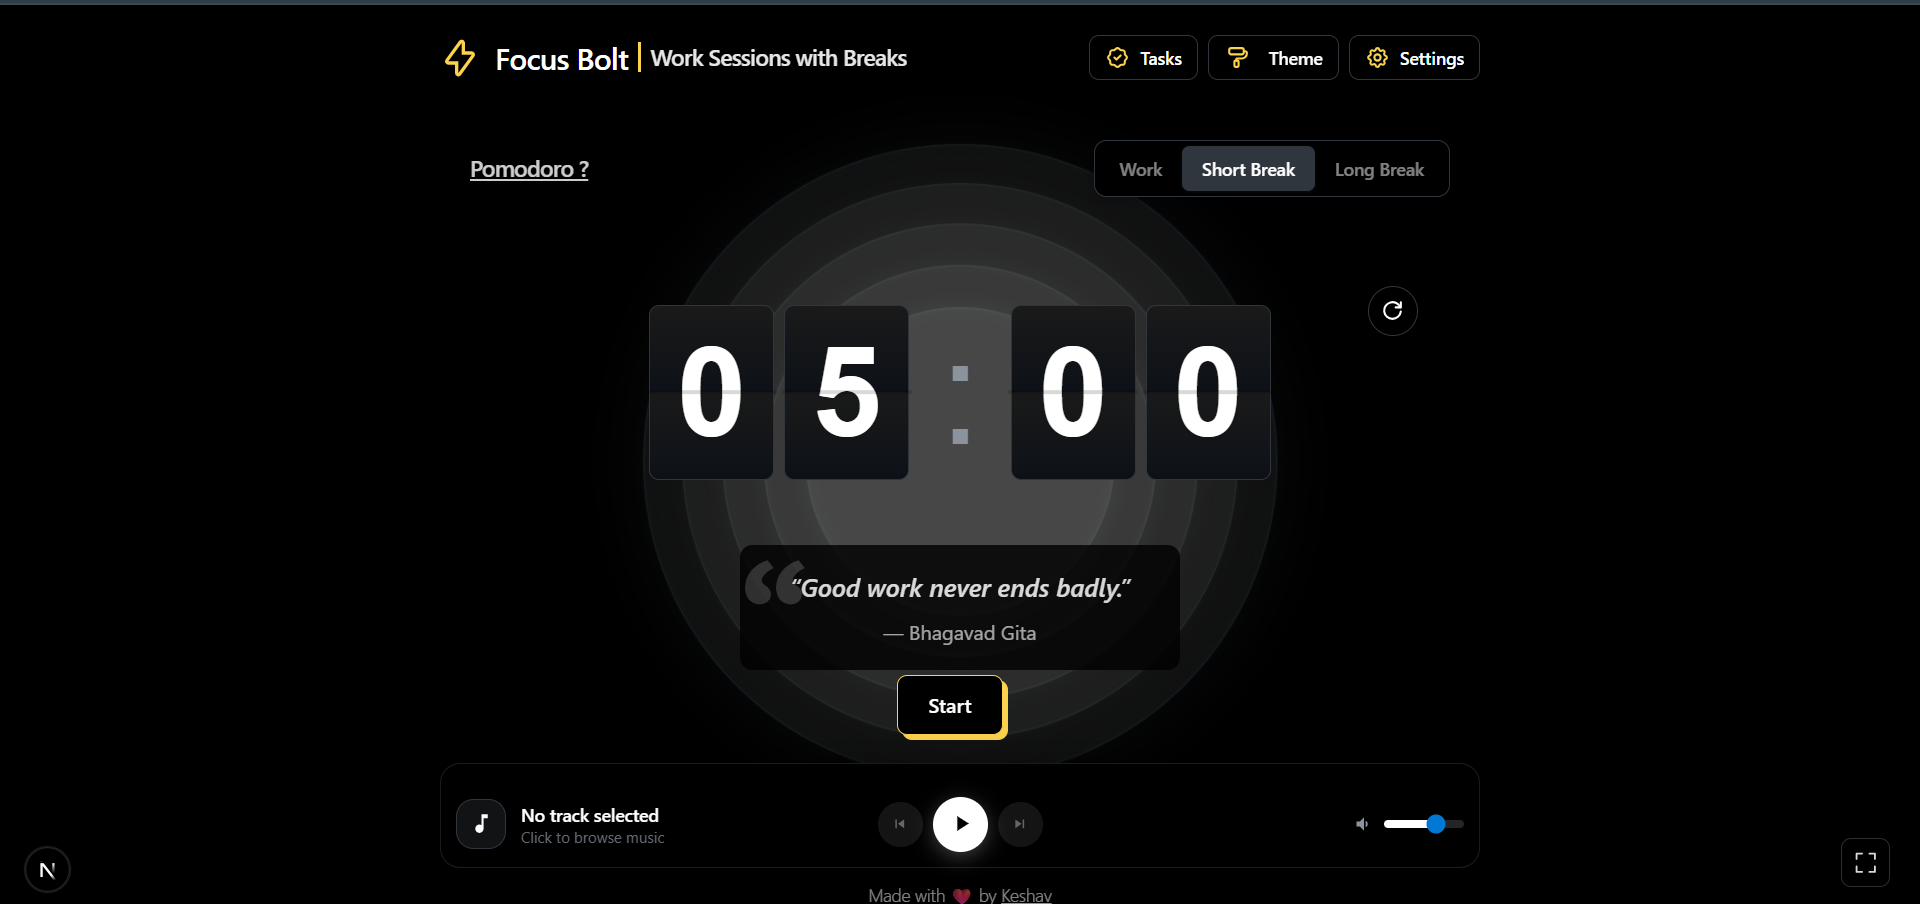
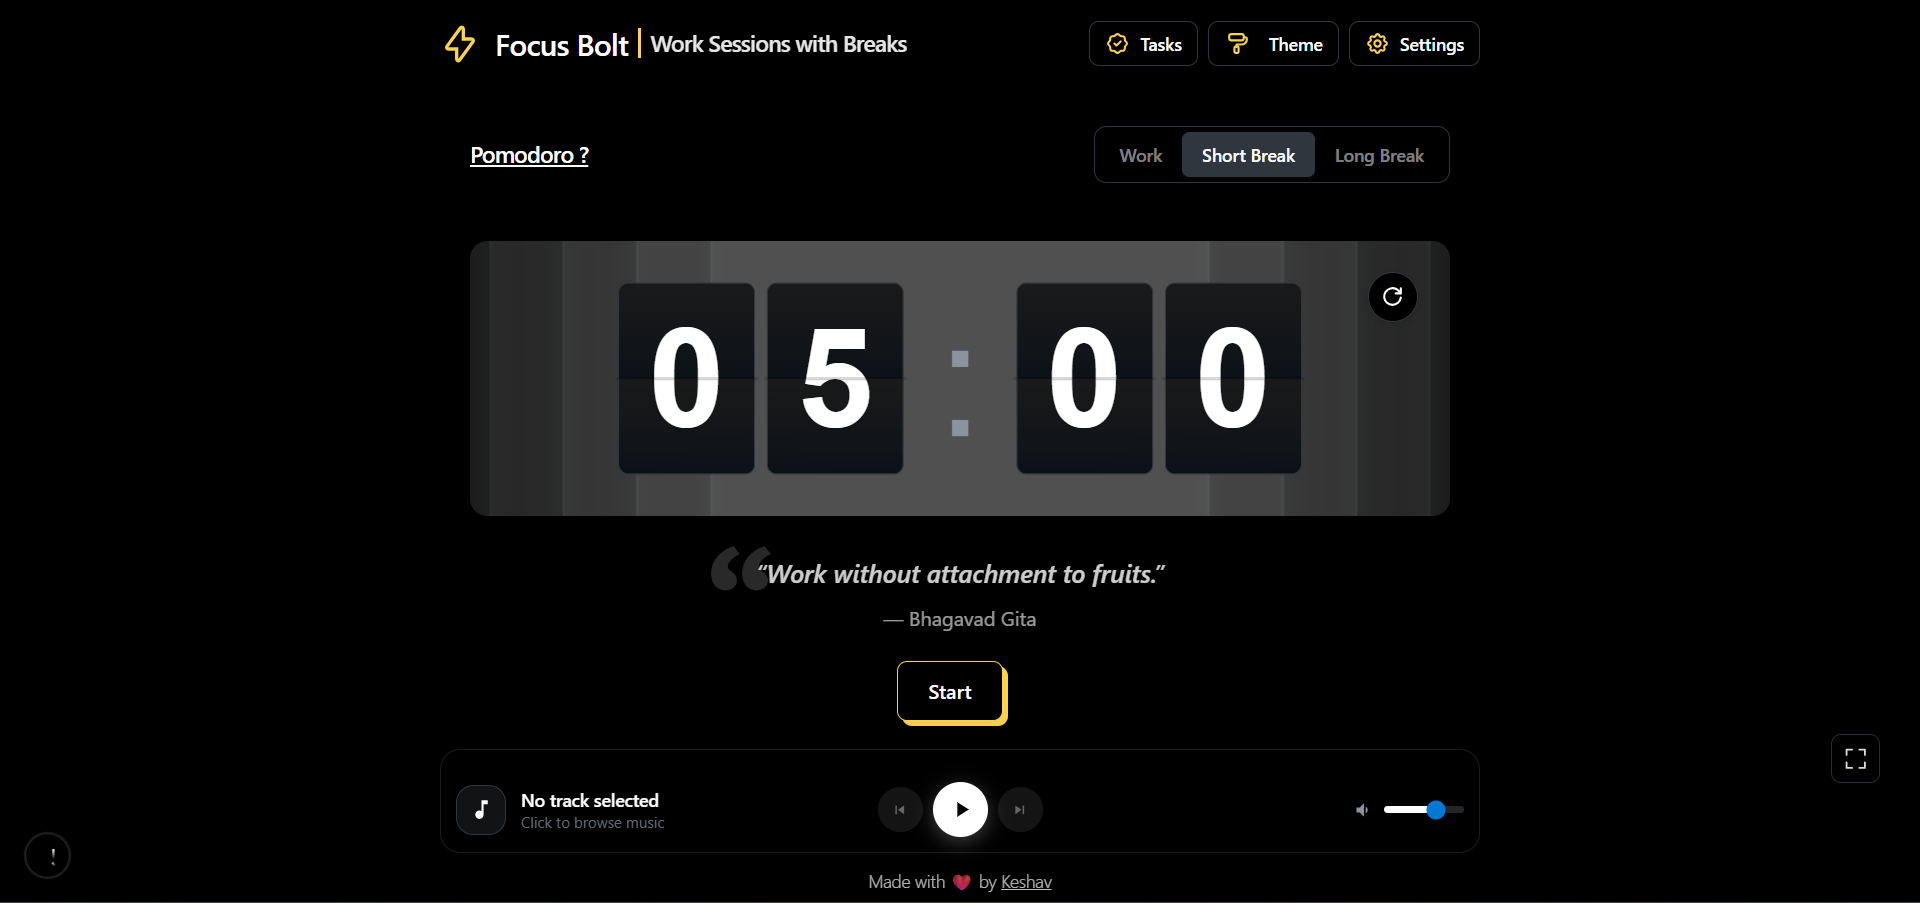
some final updates

diff --git a/app/page.tsx b/app/page.tsx
@@ -150,7 +150,20 @@ function AppBody() {
           switch (e.key.toLowerCase()) {
             case "f":
               if (!isMobile) {
-                setFocusMode(!focusMode);
+                e.preventDefault();
+                const target = document.getElementById(
+                  "pomodoro-focus-section"
+                );
+                if (!target) return;
+
+                // Check actual fullscreen state
+                if (document.fullscreenElement) {
+                  document.exitFullscreen();
+                  setFocusMode(false);
+                } else {
+                  target.requestFullscreen();
+                  setFocusMode(true);
+                }
               }
               break;
             case "c": {
@@ -254,15 +267,6 @@ function AppBody() {
         color: currentTheme.digitColor,
       }}
     >
-      {(mode === "short" || mode === "long") && (
-        <Ripple
-          mainCircleSize={250}
-          mainCircleOpacity={0.55}
-          numCircles={5}
-          currentTheme={currentTheme}
-          className="fixed inset-0 z-0"
-        />
-      )}
       <RegisterSW />
 
       <div className="flex flex-col min-h-dvh">
@@ -702,13 +706,27 @@ function AppBody() {
                     </button>
                   )}
 
-                  {/* FLIP CLOCK */}
-                  <div className="scale-[0.6] md:scale-110 lg:scale-100 ">
-                    <FlipClock
-                      seconds={remaining}
-                      theme={currentTheme}
-                      ariaLabel={`${modeLabel(mode)} time remaining`}
-                    />
+                  {/* FLIP CLOCK  && Ripple effect*/}
+                  <div className="relative w-full flex items-center justify-center">
+                    {/* Ripple positioned relative to clock container */}
+                    {(mode === "short" || mode === "long") && (
+                      <div className="absolute inset-0 overflow-hidden rounded-xl">
+                        <Ripple
+                          mainSize={isMobile ? 250 : isTablet ? 350 : 400}
+                          mainOpacity={isImageTheme ? 0.75 : 0.55}
+                          numWaves={isMobile ? 4 : isTablet ? 5 : 6}
+                          currentTheme={currentTheme}
+                          className="absolute inset-0 z-0 pointer-events-none"
+                        />
+                      </div>
+                    )}
+                    <div className=" relative z-10 scale-[0.6] min-[640px]:scale-[0.95] min-[768px]:scale-100 min-[1024px]:scale-110">
+                      <FlipClock
+                        seconds={remaining}
+                        theme={currentTheme}
+                        ariaLabel={`${modeLabel(mode)} time remaining`}
+                      />
+                    </div>
                   </div>
 
                   {/* QUOTE */}
@@ -827,27 +845,34 @@ function AppBody() {
             />
           </div>
         </div>
-       <footer className="fixed bottom-0 left-0 right-0 text-center">
-  <p
-    className="text-sm font-light backdrop-blur-sm py-2 px-4 rounded-full inline-block transition-colors duration-300 opacity-60"
-    style={{
-      color: isImageTheme
-        ? currentTheme.background
-        : currentTheme.digitColor,
-    }}
-  >
-    Made with ❤ by{" "}
-    <a
-      href="https://github.com/keshav-builds"
-      target="_blank"
-      rel="noopener noreferrer"
-      className="hover:opacity-100 transition-opacity duration-200 underline"
-    >
-      Keshav
-    </a>
-  </p>
-</footer>
-
+        <footer
+          className="  text-center"
+          style={{
+            position: "absolute",
+            bottom: 0,
+            left: 0,
+            right: 0,
+          }}
+        >
+          <p
+            className="text-sm font-light backdrop-blur-sm py-2 px-4 rounded-full inline-block transition-colors duration-300 opacity-80"
+            style={{
+              color: isImageTheme
+                ? currentTheme.background
+                : currentTheme.digitColor,
+            }}
+          >
+            Made with ❤ by{" "}
+            <a
+              href="https://github.com/keshav-builds"
+              target="_blank"
+              rel="noopener noreferrer"
+              className="hover:opacity-100 transition-opacity duration-200 underline"
+            >
+              Keshav
+            </a>
+          </p>
+        </footer>
       </div>
 
       {/* MODALS */}

diff --git a/components/ui/shadcn-io/ripple/index.tsx b/components/ui/shadcn-io/ripple/index.tsx
@@ -2,46 +2,37 @@
 
 import React, { ComponentPropsWithoutRef, CSSProperties } from "react";
 import { cn } from "@/lib/utils";
-import { ColorTheme } from "@/lib/theme"; // Import your theme type
+import { ColorTheme } from "@/lib/theme";
 
 interface RippleProps extends ComponentPropsWithoutRef<"div"> {
-  mainCircleSize?: number;
-  mainCircleOpacity?: number;
-  numCircles?: number;
-  currentTheme: ColorTheme; // Add theme prop
+  mainSize?: number;
+  mainOpacity?: number;
+  numWaves?: number;
+  currentTheme: ColorTheme;
 }
 
 export const Ripple = React.memo(function Ripple({
-  mainCircleSize = 210,
-  mainCircleOpacity = 0.24,
-  numCircles = 8,
-  currentTheme, // Destructure theme
+  mainSize = 210,
+  mainOpacity = 0.24,
+  numWaves = 8,
+  currentTheme,
   className,
   ...props
 }: RippleProps) {
-  // Calculate theme-aware colors for better visibility
   const getRippleColors = (theme: ColorTheme) => {
-    // For dark/space themes, use bright colors
-   if (theme.backgroundImage) {
-  return {
-    backgroundColor: 'rgba(255, 255, 255, 0.12)', // White background for universal visibility
-    borderColor: 'rgba(255, 255, 255, 0.8)', // Bright white border
-    glowColor: 'rgba(255, 255, 255, 0.4)', // White glow
-    outlineColor: 'rgba(0, 0, 0, 0.6)', // Dark outline for contrast
-    shadowColor: 'rgba(0, 0, 0, 0.3)', // Dark shadow for depth
-  };
-}
-
+    if (theme.backgroundImage) {
+      return {
+        backgroundColor: 'rgba(255, 255, 255, 0.12)',
+        borderColor: 'rgba(255, 255, 255, 0.5)',
+        glowColor: 'rgba(255, 255, 255, 0.4)',
+      };
+    }
     
-   // For light themes, use much darker theme colors for better visibility
-return {
-  backgroundColor: `${theme.digitColor}20`, // Much higher opacity (67%)
-  borderColor: `${theme.cardBorder}DD`, // Very high opacity (87%) 
-  glowColor: `${theme.cardBorder}66`, // Medium opacity (40%)
-  outlineColor: 'rgba(0, 0, 0, 0.4)', // Dark outline for extra contrast
-  shadowColor: 'rgba(0, 0, 0, 0.2)', // Subtle dark shadow
-};
-
+    return {
+      backgroundColor: `${theme.digitColor}20`,
+      borderColor: `${theme.cardBorder}DD`,
+      glowColor: `${theme.cardBorder}66`,
+    };
   };
 
   const rippleColors = getRippleColors(currentTheme);
@@ -54,28 +45,30 @@ return {
       )}
       {...props}
     >
-      {Array.from({ length: numCircles }, (_, i) => {
-        const size = mainCircleSize + i * 70;
-        const opacity = Math.max(mainCircleOpacity - i * 0.03, 0.05); // Ensure minimum visibility
+      {Array.from({ length: numWaves }, (_, i) => {
+        const width = mainSize + i * 120;
+        const height = mainSize + i * 60;
+        const opacity = Math.max(mainOpacity - i * 0.03, 0.05);
         const animationDelay = `${i * 0.06}s`;
 
         return (
           <div
             key={i}
-            className="absolute animate-ripple rounded-full border"
+            className="absolute animate-ripple border"
             style={{
               "--i": i,
-              width: `${size}px`,
-              height: `${size}px`,
+              width: `${width}px`,
+              height: `${height}px`,
               opacity,
               animationDelay,
-              borderWidth: "2px", // Thicker border for visibility
+              borderWidth: "2px",
+              borderRadius: "20px",
               borderColor: rippleColors.borderColor,
               backgroundColor: rippleColors.backgroundColor,
               boxShadow: `
                 0 0 ${20 + i * 10}px ${rippleColors.glowColor},
                 inset 0 0 ${15 + i * 5}px ${rippleColors.glowColor}
-              `, // Add glow effect
+              `,
               top: "50%",
               left: "50%",
               transform: "translate(-50%, -50%) scale(1)",

diff --git a/components/timer/focus-mode-toggle.tsx b/components/timer/focus-mode-toggle.tsx
@@ -28,15 +28,12 @@ export function FocusToggleIcon({ currentTheme }: Props) {
   // Listen for fullscreen changes (ESC key)
   useEffect(() => {
     const handleFullscreenChange = () => {
-      // Only update if state doesn't match actual fullscreen state
-      if (focusMode !== !!document.fullscreenElement) {
-        setFocusMode(!!document.fullscreenElement);
-      }
+      setFocusMode(!!document.fullscreenElement);
     };
     
     document.addEventListener("fullscreenchange", handleFullscreenChange);
     return () => document.removeEventListener("fullscreenchange", handleFullscreenChange);
-  }, [focusMode, setFocusMode]);
+  }, [setFocusMode]);
 
   const isImageTheme = Boolean(currentTheme.backgroundImage);
 
@@ -47,18 +44,18 @@ export function FocusToggleIcon({ currentTheme }: Props) {
     if (!target) return;
 
     try {
-      if (focusMode) {
-        // Exit fullscreen
+      if (focusMode && document.fullscreenElement) {
+        // Only exit if actually in fullscreen
         await document.exitFullscreen();
         setFocusMode(false);
-      } else {
+      } else if (!focusMode) {
         // Enter fullscreen
         await target.requestFullscreen();
         setFocusMode(true);
       }
     } catch (err) {
       console.error("Fullscreen toggle failed:", err);
-      setFocusMode(false);
+      setFocusMode(!!document.fullscreenElement);
     }
   };
 
@@ -74,9 +71,6 @@ export function FocusToggleIcon({ currentTheme }: Props) {
         border: `1px solid ${currentTheme.cardBorder}`,
         boxShadow: "0 4px 12px rgba(0,0,0,0.15)",
         opacity: 0.85,
-        position: 'fixed',
-  bottom: 24,           // 6rem from bottom
-  right: 24,
         cursor: "pointer",
       }}
     >

diff --git a/app/globals.css b/app/globals.css
@@ -110,9 +110,9 @@ main:fullscreen {
   overflow: auto; /* Allow scroll if content is too tall */
 }
 
-.fullscreen-mode:fullscreen .flip-clock {
+/* .fullscreen-mode:fullscreen .flip-clock {
   transform: scale(1.2);
-}
+} */
 
 .fullscreen-mode:fullscreen .card-header {
   width: 100%;
